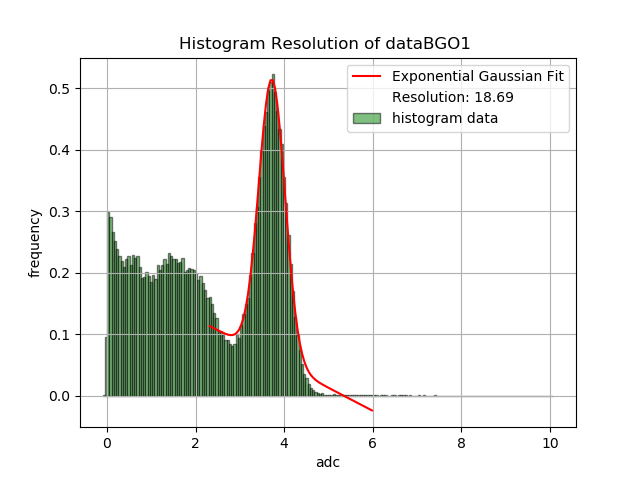
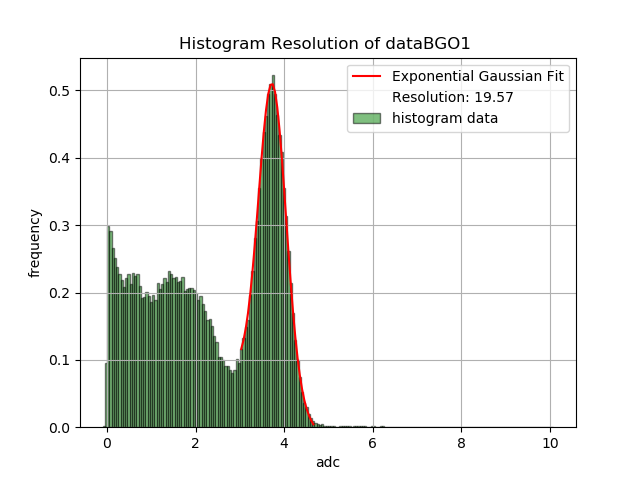
correction1

diff --git a/BGORESOLUTION/resolutionmethod2.py b/BGORESOLUTION/resolutionmethod2.py
@@ -26,8 +26,8 @@ for i in range(len(filenames)):
     data=np.loadtxt(f,unpack=True)
 #qui definisco gli estremi dei fotopicchi
     if i==0:
-        a=2.3
-        b=6
+        a=3
+        b=4.7
     if i==1:
         a=2.29
         b=5
@@ -75,7 +75,7 @@ for i in range(len(filenames)):
     if i<6 and i!=3 or i==8 or i==7:
         peak=ExponentialGaussianModel()
         text='Exponential Gaussian Fit'
-    elif  i==6 or i>6 and i!=8 and i!=7 or i==3:
+    elif  i==6  or i>6 and i!=8 and i!=7 or i==3:
         peak=SkewedGaussianModel()
         text='Skewed Gaussian Fit'
     else:
